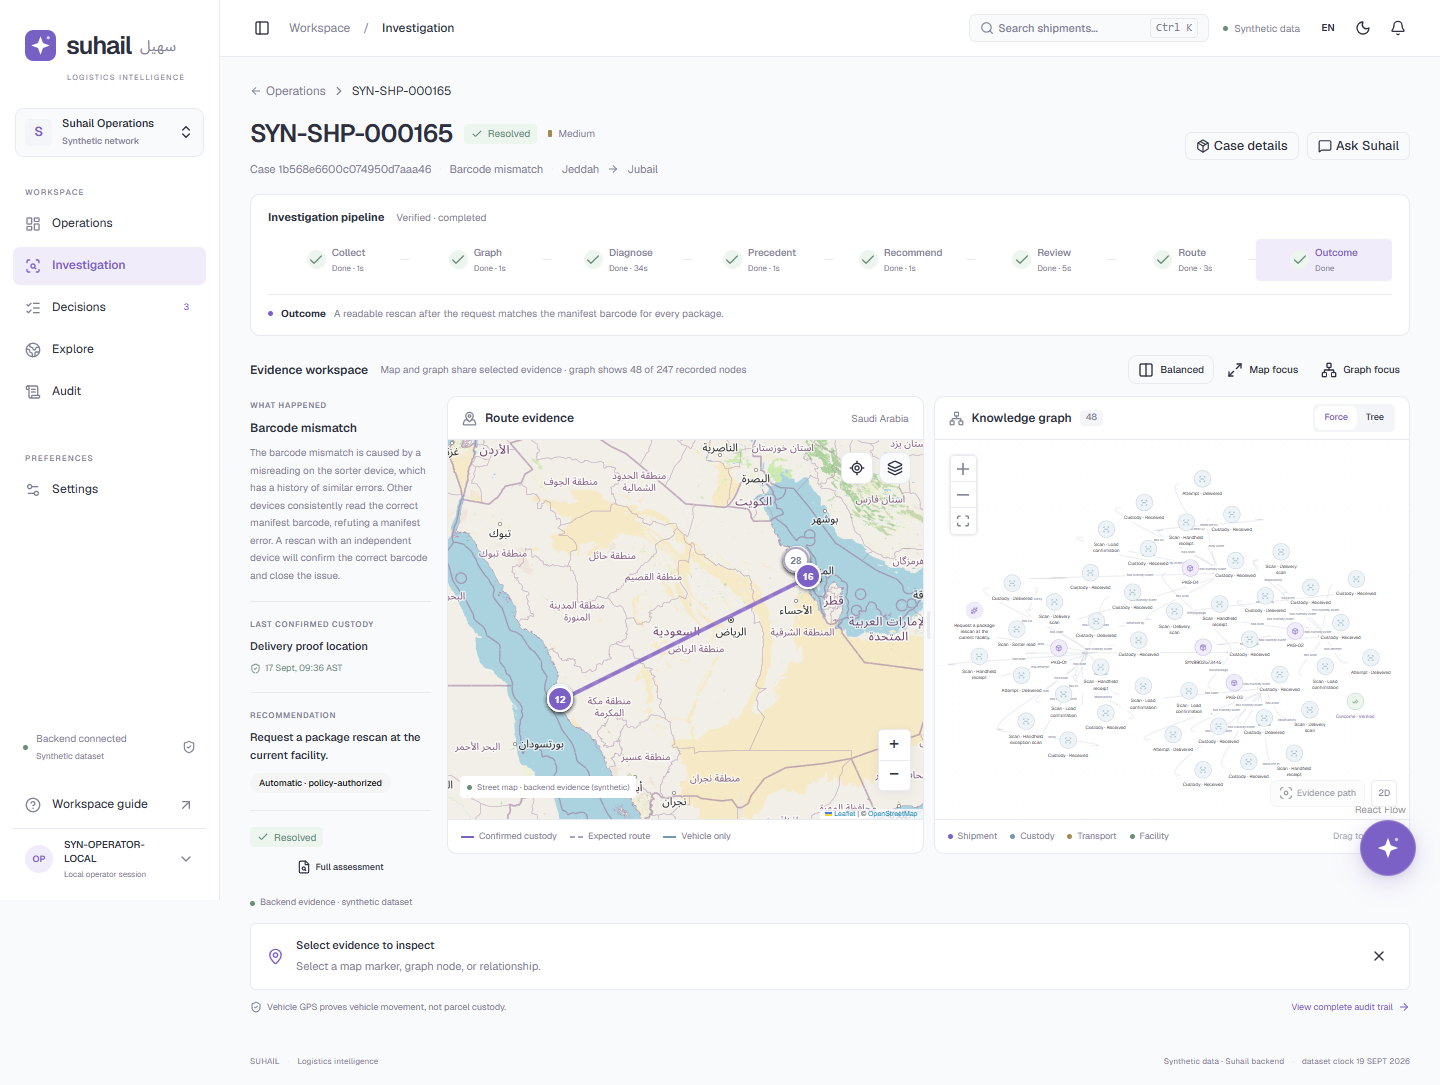
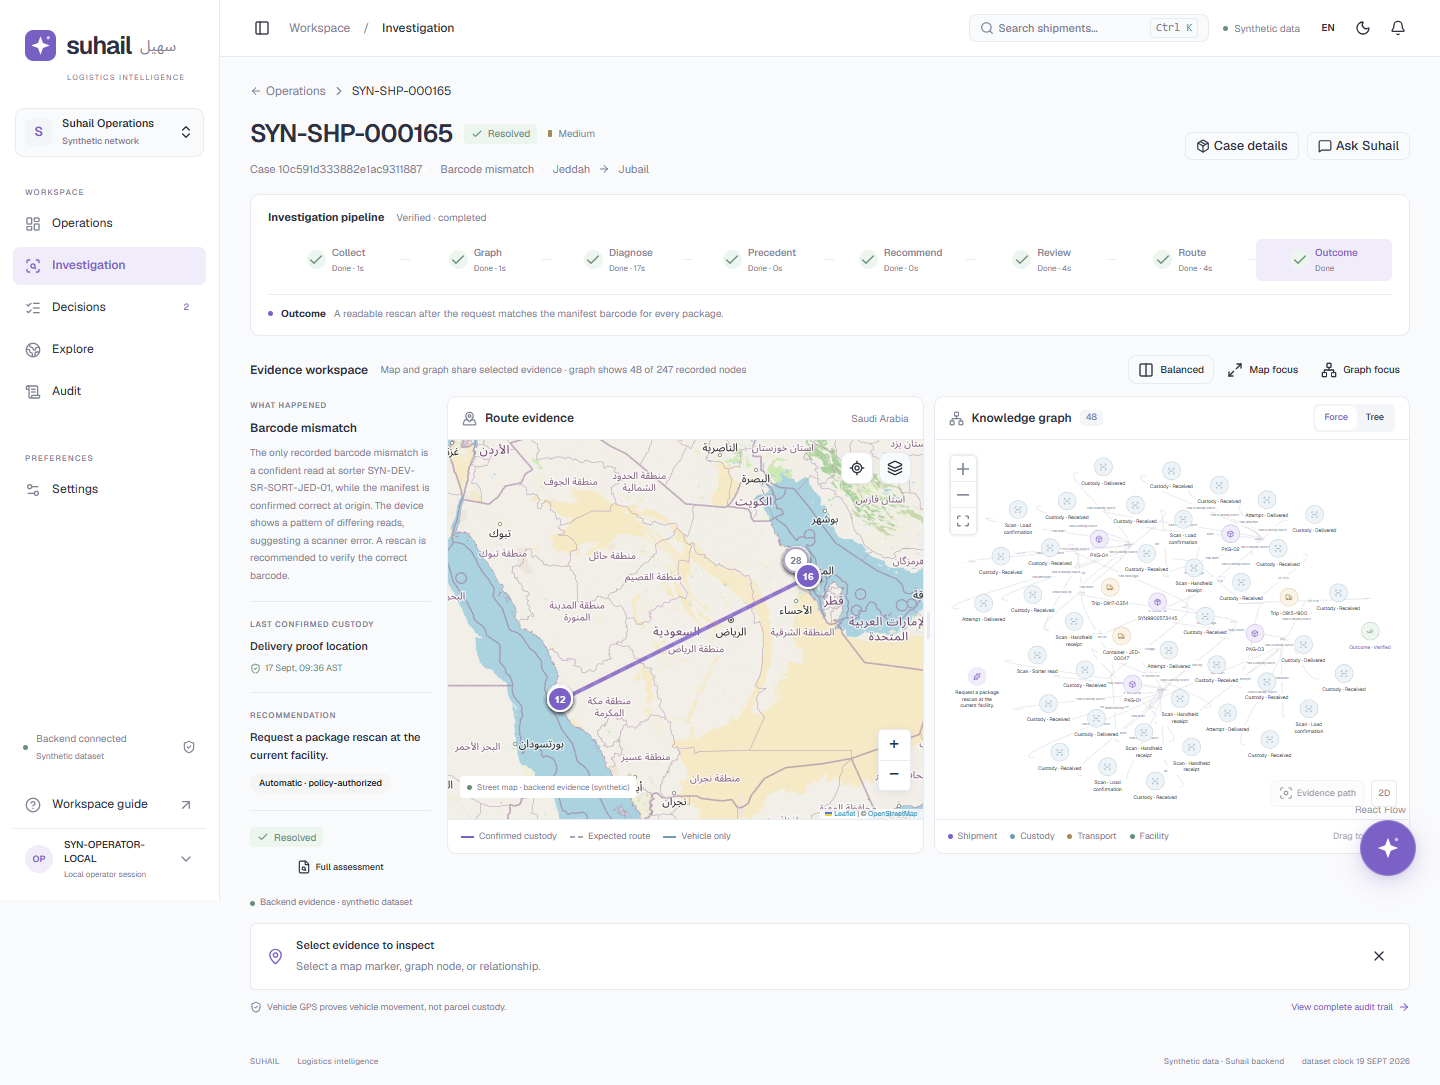
fix(frontend-next): evidence that changed during an investigation is its own state, not a model failure; a re-run's first stage reads as starting; a read-only live-arrival watcher

Changed region(s): [[0.6562, 0.4258, 0.9688, 0.73], [0.1562, 0.3954, 0.3125, 0.5475], [0.1875, 0.1521, 0.4688, 0.1825]]

diff --git a/frontend-next/tests/e2e-live/demo-live-arrivals.spec.ts b/frontend-next/tests/e2e-live/demo-live-arrivals.spec.ts
@@ -1,0 +1,121 @@
+import { expect, test } from "@playwright/test";
+import { writeFileSync } from "node:fs";
+
+/**
+ * Watches a live demo session through the interface, read-only: cases arriving in the queue,
+ * and each investigation's header text while the backend's worker runs it (the running elapsed
+ * time and any live state such as a retried reply). It sends no operator request.
+ *
+ *   SUHAIL_LIVE_URL=http://127.0.0.1:8020 SUHAIL_DEMO_WATCH=<number of cases to wait for> \
+ *   npx playwright test --config playwright.live.config.ts demo-live-arrivals
+ */
+const EXPECTED = Number(process.env.SUHAIL_DEMO_WATCH ?? 0);
+const MINUTES = Number(process.env.SUHAIL_DEMO_WATCH_MINUTES ?? 30);
+test.skip(!EXPECTED, "set SUHAIL_DEMO_WATCH to the number of cases the session will open");
+test.setTimeout((MINUTES + 2) * 60 * 1000);
+
+interface Row {
+  case_id: string;
+  shipment_id: string;
+  workflow_state: string;
+}
+interface Seen {
+  shipment: string;
+  arrivedAt: number;
+  listedAfterMs: number | null;
+  headers: string[];
+  stageTexts: string[];
+  final?: string;
+}
+
+test("Live arrivals appear in order and each investigation shows its running time", async ({
+  page,
+  context,
+  request,
+}) => {
+  const started = Date.now();
+  const seen = new Map<string, Seen>();
+  const errors: string[] = [];
+  page.on("pageerror", (error) => errors.push(error.message));
+  await page.goto("/app/operations");
+  await expect(page.locator(".environment-badge")).toHaveText("Synthetic data", {
+    timeout: 60000,
+  });
+  const casePage = await context.newPage();
+  casePage.on("pageerror", (error) => errors.push(error.message));
+  let watching: string | null = null;
+  const done = () =>
+    seen.size >= EXPECTED && [...seen.values()].every((item) => item.final !== undefined);
+
+  while (!done() && Date.now() - started < MINUTES * 60 * 1000) {
+    const queue = await request
+      .get("/cases/queue?scope=all&limit=100")
+      .then((response) => response.json() as Promise<{ items: Row[] }>)
+      .catch(() => ({ items: [] as Row[] }));
+    for (const row of queue.items) {
+      let item = seen.get(row.case_id);
+      if (!item) {
+        item = {
+          shipment: row.shipment_id,
+          arrivedAt: Date.now(),
+          listedAfterMs: null,
+          headers: [],
+          stageTexts: [],
+        };
+        seen.set(row.case_id, item);
+        console.log(`+${Math.round((Date.now() - started) / 1000)}s arrived ${row.shipment_id} ${row.workflow_state}`);
+      }
+      if (item.listedAfterMs === null && (await page.getByText(row.shipment_id).count()) > 0) {
+        item.listedAfterMs = Date.now() - item.arrivedAt;
+        await page.screenshot({ path: `screenshots/live-queue-${seen.size}.png` });
+      }
+      if (!/^(OPEN|INVESTIGATING)$/.test(row.workflow_state) && item.final === undefined) {
+        item.final = row.workflow_state;
+        console.log(`+${Math.round((Date.now() - started) / 1000)}s ${row.shipment_id} -> ${row.workflow_state}`);
+        if (watching === row.case_id) {
+          await casePage.waitForTimeout(6000);
+          item.headers.push(
+            `END: ${await casePage.locator(".pipeline-meta > span").innerText().catch(() => "?")}`,
+          );
+          await casePage.screenshot({
+            path: `screenshots/live-${row.shipment_id}-end.png`,
+            fullPage: true,
+          });
+          watching = null;
+        }
+      }
+    }
+    const active = queue.items.find((row) => row.workflow_state === "INVESTIGATING");
+    if (active && watching !== active.case_id) {
+      watching = active.case_id;
+      await casePage.goto(`/app/cases/${active.case_id}`);
+    }
+    if (watching) {
+      const item = seen.get(watching)!;
+      const header = await casePage
+        .locator(".pipeline-meta > span")
+        .innerText({ timeout: 2000 })
+        .catch(() => "");
+      const stage = await casePage
+        .locator(".pipeline-stage-summary")
+        .innerText({ timeout: 2000 })
+        .catch(() => "");
+      if (header && item.headers.at(-1) !== header) item.headers.push(header);
+      if (stage && item.stageTexts.at(-1) !== stage) item.stageTexts.push(stage);
+      if (item.headers.length === 3)
+        await casePage.screenshot({
+          path: `screenshots/live-${item.shipment}-running.png`,
+          fullPage: true,
+        });
+    }
+    await page.waitForTimeout(2000);
+  }
+  const report = [...seen.values()];
+  writeFileSync("test-results/live-arrivals.json", JSON.stringify({ errors, report }, null, 2));
+  for (const item of report)
+    console.log(
+      `${item.shipment}: final ${item.final ?? "not finished"}; listed after ${item.listedAfterMs ?? "never"} ms; ${item.headers.length} header texts; running clock seen: ${item.headers.some((text) => /in progress · \d/.test(text))}`,
+    );
+  expect(errors).toEqual([]);
+  expect(seen.size).toBeGreaterThanOrEqual(EXPECTED);
+});

diff --git a/frontend-next/src/pages/investigation.tsx b/frontend-next/src/pages/investigation.tsx
@@ -417,7 +417,15 @@ export function InvestigationPage() {
                         "The investigator reached no conclusion within its turn budget · no diagnosis · with a person",
                         "لم يصل المحقق إلى استنتاج ضمن عدد أدواره · لا تشخيص · لدى شخص",
                       )
-                  : c.backend?.investigationLog?.degraded.length
+                  : c.backend?.investigationLog?.degradedKinds.includes(
+                        "snapshot_changed",
+                      )
+                    ? t(
+                        "Evidence changed during the investigation · a person must review the latest evidence",
+                        "تغيرت الأدلة أثناء التحقيق · على شخص مراجعة أحدث الأدلة",
+                      )
+                  : c.backend?.investigationLog?.degraded.length &&
+                      !c.backend.diagnosisAvailable
                     ? t(
                         "The model's reply could not be used · no diagnosis · with a person",
                         "تعذر استخدام رد النموذج · لا تشخيص · لدى شخص",
@@ -591,10 +599,12 @@ export function InvestigationPage() {
                     ))
                   : stage === 6 && c.execution
                     ? c.execution.detail
-                    : t(
-                        "No event is recorded for this stage in the current run.",
-                        "لا يوجد حدث مسجل لهذه المرحلة في التحقيق الحالي.",
-                      )))
+                    : c.status === "investigating" && stage === (c.run?.stage ?? 0)
+                      ? t("Starting…", "جارٍ البدء…")
+                      : t(
+                          "No event is recorded for this stage in the current run.",
+                          "لا يوجد حدث مسجل لهذه المرحلة في التحقيق الحالي.",
+                        )))
               : stage === 2
                 ? c.diagnosis
                 : stage === 4

diff --git a/frontend-next/tests/e2e-live/demo-stories.spec.ts b/frontend-next/tests/e2e-live/demo-stories.spec.ts
@@ -49,7 +49,15 @@ for (const id of CASES)
     else
       // No accepted diagnosis: the monitor's neutral sentence, never a cause.
       await expect(context).toContainText(/no accepted agent diagnosis|Monitor detected/i);
-    if (degraded.length)
+    // Evidence that moved during the run is not a model failure and leaves the diagnosis shown.
+    const snapshot = (result.degraded ?? []).some(
+      (item: { role?: string }) => item.role === "snapshot",
+    );
+    if (snapshot)
+      await expect(page.locator(".pipeline-meta")).toContainText(
+        "Evidence changed during the investigation",
+      );
+    else if (degraded.length)
       await expect(page.locator(".pipeline-meta")).toContainText(
         degraded.some((item) => item.kind === "turn_budget_exhausted")
           ? "reached no conclusion within its turn budget"
@@ -76,7 +84,7 @@ for (const id of CASES)
     await page.getByRole("button", { name: "Case details" }).click();
     const sheet = page.getByRole("dialog");
     if (result.investigation_log) await expect(sheet.getByTestId("investigation-steps")).toBeVisible();
-    if (degraded.length) {
+    if (degraded.length && !snapshot) {
       await expect(sheet.getByTestId("investigation-steps")).toContainText(
         /no diagnosis was substituted/,
       );

diff --git a/frontend-next/src/api/adapters.ts b/frontend-next/src/api/adapters.ts
@@ -585,7 +585,9 @@ function investigationLogOf(
       .filter((check) => !check.passed)
       .map((check) => humanize(check.check)),
     nextEvidenceStep: result.investigation?.next_evidence_step ?? null,
-    degradedKinds: (result.degraded ?? []).map((item) => item.kind ?? ""),
+    degradedKinds: (result.degraded ?? []).map(
+      (item) => item.kind ?? (item.role === "snapshot" ? "snapshot_changed" : ""),
+    ),
     rejectedReplies: [
       ...new Set(
         (result.latency?.model?.turns ?? [])
@@ -596,6 +598,9 @@ function investigationLogOf(
     ],
     degraded: (result.degraded ?? []).map((item) => {
       const who = item.role === "reviewer" ? "reviewer" : "investigator";
+      if (item.role === "snapshot")
+        // Not a model failure: the evidence moved while the investigation ran.
+        return "Evidence changed during the investigation, so its conclusion rests on a superseded snapshot. A person must review the latest evidence.";
       if (item.kind === "turn_budget_exhausted")
         return `The ${who} reached no valid conclusion within its turn budget. No diagnosis was substituted. A person has this case.`;
       if (item.kind === "invalid_model_output")

diff --git a/frontend-next/tests/unit/api-adapters.test.ts b/frontend-next/tests/unit/api-adapters.test.ts
@@ -251,6 +251,10 @@ describe("backend case detail", () => {
     expect(spent.backend?.investigationLog?.degraded[0]).not.toMatch(/not valid, so nothing/);
     expect(spent.backend?.investigationLog?.rejectedReplies).toEqual(["empty reply"]);
     expect(spent.backend?.timing?.totalSeconds).toBe(90.9);
+    // Evidence that moved during the run is not worded as a model failure.
+    const moved = applyDetail(base, detailA({ workflow_state: "HUMAN_REVIEW", run: { ...seed.run!, result: { ...seed.run!.result!, degraded: [{ role: "snapshot", error: "evidence changed during investigation" }] } } }));
+    expect(moved.backend?.investigationLog?.degradedKinds).toEqual(["snapshot_changed"]);
+    expect(moved.backend?.investigationLog?.degraded[0]).toMatch(/superseded snapshot/);
     expect(sent.backend?.verification).toBeUndefined();
     expect(sent.outcome).toBeUndefined();
     expect(controls(sent).humanOutcome).toBe(true);

diff --git a/docs/agent-runs/2026-10-11_ui-live-arrivals.md b/docs/agent-runs/2026-10-11_ui-live-arrivals.md
@@ -1,0 +1,58 @@
+# Redesigned UI: live arrivals on the demo backend (11 October 2026)
+
+URL: `http://127.0.0.1:8020/app/` (session `SYN-OPS-SESSION-6405a1cb268436c587a28a8c`, five curated
+shipments, real GPT-OSS, simulated clock at speed 600). Synthetic data; executions are the
+backend's simulator.
+
+## How it was checked
+
+A browser watched the session read-only for 9.4 minutes from before the first case opened: the
+Operations page, plus the case under investigation, sampled every 2 seconds. No operator request
+was sent. No page error occurred. Afterwards each case was opened at rest and compared with
+`GET /cases/{id}`; all five passed.
+
+## What the live session showed
+
+| Shipment | Arrived (watch clock) | Listed on Operations after | Runs seen | State after the watch |
+| --- | --- | --- | --- | --- |
+| `SYN-SHP-000165` | +4 s | 2.1 s | 2 | Resolved: automatic rescan, verified, exception cleared |
+| `SYN-SHP-000104` | +60 s | 2.1 s | 4 | With a person: evidence kept changing during investigation |
+| `SYN-SHP-000359` | +146 s | at once | 3 | Escalated: reviewer did not accept |
+| `SYN-SHP-000416` | +386 s | at once | 1 during the watch, another after | With a person |
+| `SYN-SHP-000232` | +421 s | 2.2 s | 1 | Awaiting outcome: answer scheduled for 18 Sept 06:31 AST |
+
+Arrival order was 000165, 000104, 000359, 000416, 000232 (the last two swapped against the plan).
+Every investigation showed "Investigation in progress" with the backend's elapsed time, each
+evidence query the investigator chose as it happened, the reviewer's verdict, and its end state.
+
+## What matters for the demo
+
+1. **Cases are re-investigated several times.** At this clock speed new evidence arrives during
+   and after a run, the backend reopens the case, and the page shows "Queued for re-investigation ·
+   the earlier run is superseded" and starts over. `SYN-SHP-000104` ran four times in about four
+   minutes and ended with a person because the evidence kept changing. It is correct behaviour but
+   reads as restless, and it spends model calls. This is a backend pacing choice, reported to the
+   backend session.
+2. **The elapsed time moves in steps.** It is the backend's measurement at the latest event, so it
+   jumps (for example 28 s to 53 s) while a slow model call runs. A smoothly ticking clock would
+   need the browser to count between events; not done.
+
+## What rendered wrongly, and the fix
+
+`SYN-SHP-000104` ended with an accepted diagnosis and the authority rule "superseded snapshot", but
+the header read "The model's reply could not be used · no diagnosis". The backend's note was that
+evidence changed during the investigation, which is not a model failure. It now reads "Evidence
+changed during the investigation · a person must review the latest evidence", and the diagnosis
+stays shown. The start of a re-run also showed "No event is recorded for this stage"; it now shows
+"Starting…".
+
+## Not seen on real data
+
+"Model reply invalid, retrying", "no conclusion within its turn budget", a conclusion on the final
+allowed turn, and "no answer by the deadline": none occurred in this session. Unit-tested only.
+
+## Checks at this commit
+
+TypeScript and lint clean; 53 unit tests; 9 connected browser tests (scripted stand-in); the live
+watch and 5 read-only case checks on the demo backend. The 20 lab browser tests last ran at
+`164f2e7`; later changes touch connected-mode code only.
